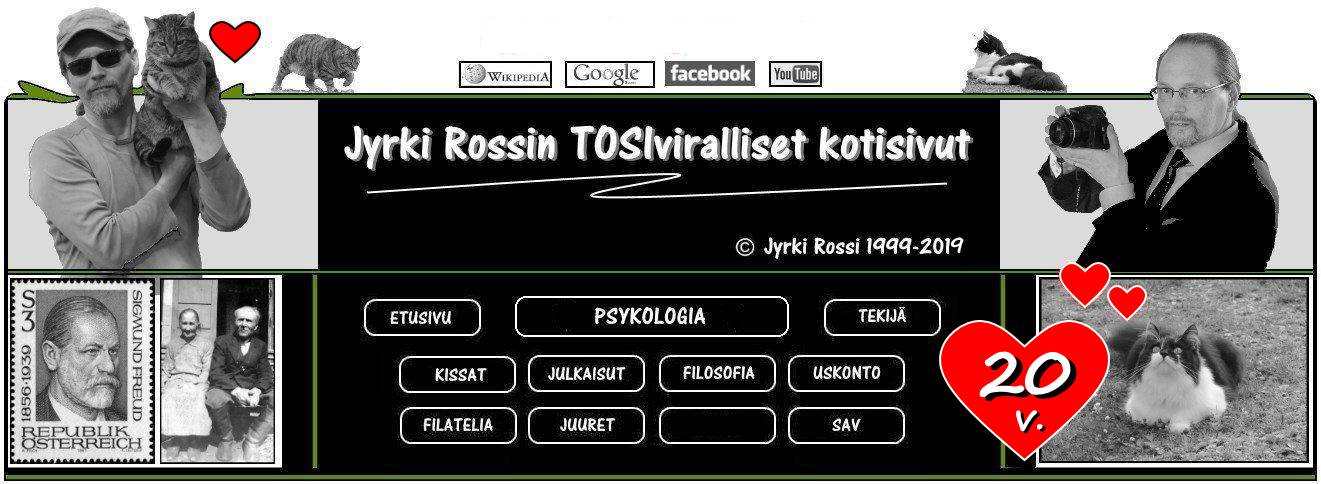
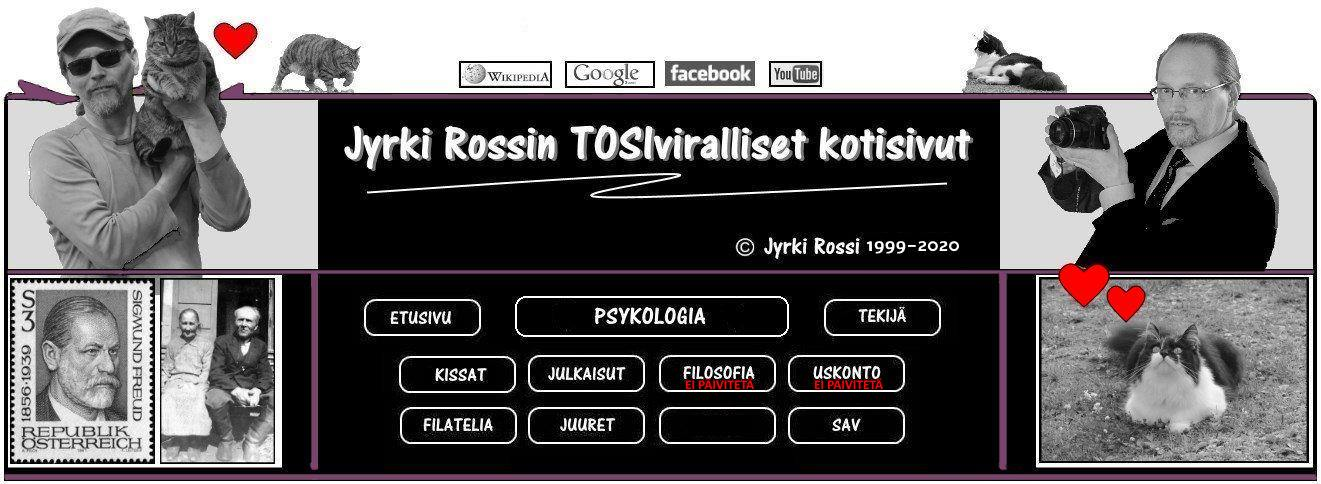
Add files via upload

diff --git a/perusta.css b/perusta.css
@@ -4,7 +4,7 @@ body {font-family:Verdana, Arial, sans-serif;}
 h1 {color:black; text-align:center; font-size:230%;}
 
 
-.mpohja {background: #678900;
+.mpohja {background: #7A446C;
 	text-align:left; vertical-align:top;
 	color:black;
 	font-weight:bold;
